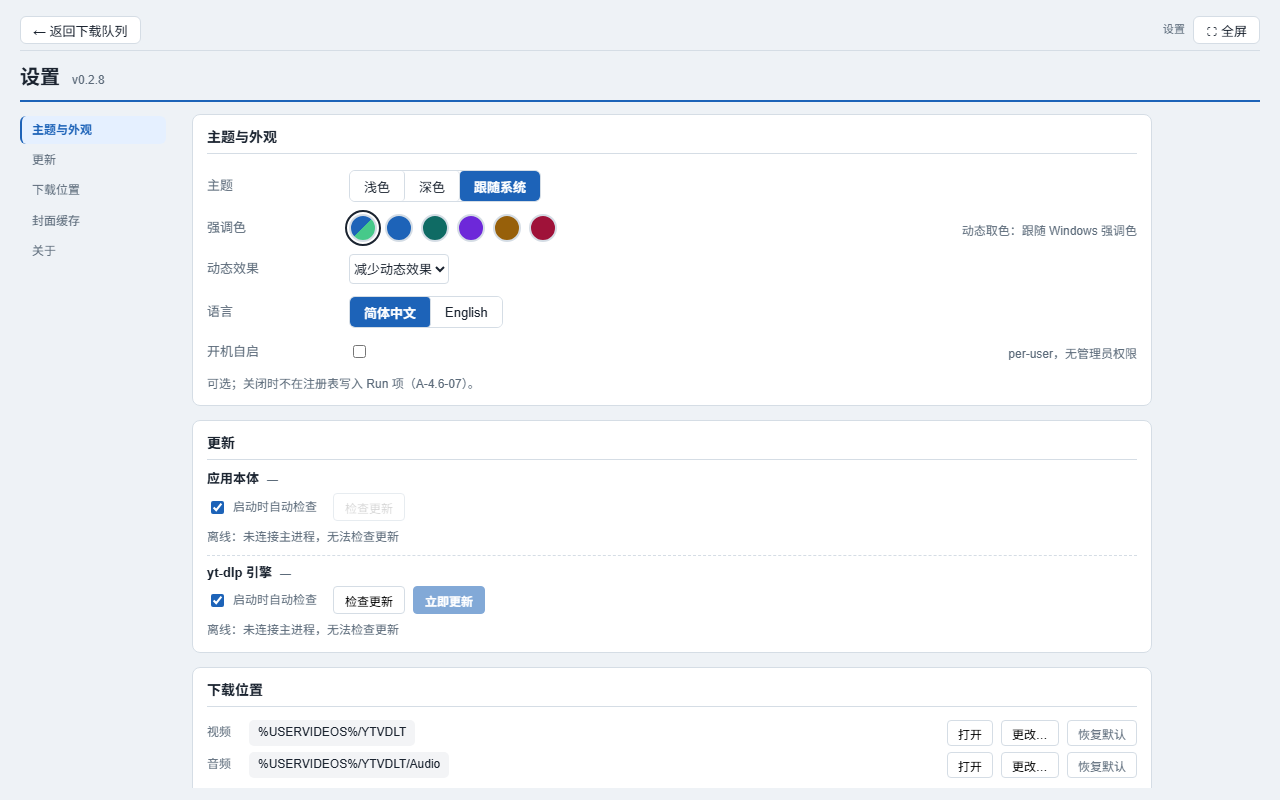
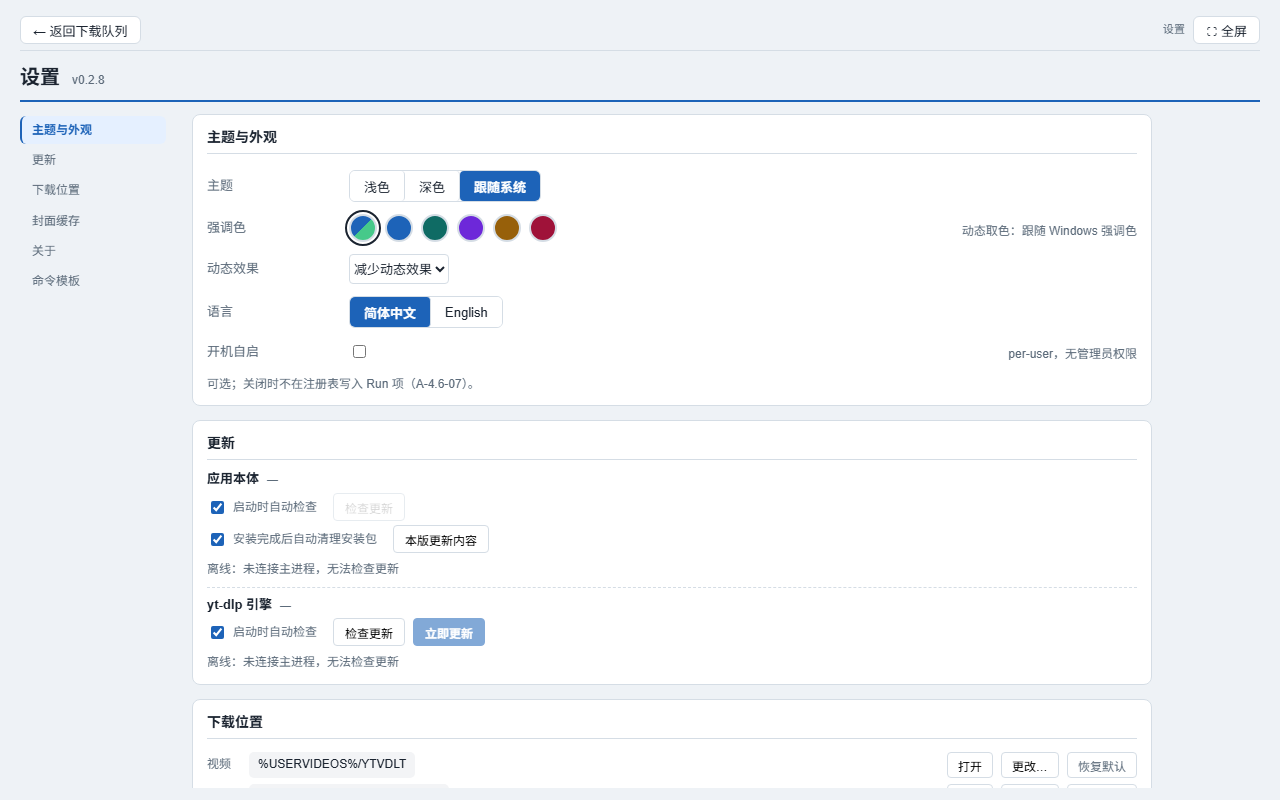
docs(readme): 0.3.3 发版信息与功能/限制/验证数字刷新，中英同步，截图重生成

diff --git a/README.md b/README.md
@@ -19,38 +19,34 @@ dialog on first launch.
 - Download engine: bundled `yt-dlp`, verified and replaceable at runtime
 - Maintainability: a one-way layering rule keeps all queue logic offline-testable
 
-## Latest release — 0.3.2
+## Latest release — 0.3.3
 
 | | |
 |---|---|
-| Released | 2026-11-17 |
-| Artifact | `YTVDLT.Setup.0.3.2.exe` — NSIS installer, Windows x64, 226,414,142 B |
[1 lines of base64/hex data omitted]
-| Tag / release baseline | `v0.3.2` |
-| Downloads | [Release 0.3.2](https://github.com/yechenliao0820/YTVDLT/releases/tag/v0.3.2) · [all releases](https://github.com/yechenliao0820/YTVDLT/releases) |
+| Released | 2026-11-26 |
+| Artifact | `YTVDLT.Setup.0.3.3.exe` — NSIS installer, Windows x64, 226,344,798 B |
[1 lines of base64/hex data omitted]
+| Tag / release baseline | `v0.3.3` |
+| Downloads | [Release 0.3.3](https://github.com/yechenliao0820/YTVDLT/releases/tag/v0.3.3) · [all releases](https://github.com/yechenliao0820/YTVDLT/releases) |
 
-**What changed in 0.3.2** — a privacy-and-durability release built out of two
-audit rounds (D-234…D-243). Private mode finally means what it says: the toolbar
-switch only reports "on" after the main process confirms the write and reverts
-with the real reason if it fails, the three paths that create a task wait for
-that write instead of reading the previous value, and a private task is no
-longer written to the queue snapshot at all — a crash or a kill can no longer
-resurrect the record on the next launch. Queue durability got equally honest:
-every enqueue is persisted before it returns (including a task that starts
-immediately, whose probe phase used to be unpersisted), and a failed snapshot
-write is reported instead of being swallowed — a removal that never reached the
-disk no longer looks like a success. `history.json` is read directly instead of
-trusting an existence probe that mapped every stat error to "missing", so a
-transient permission or sharing error can no longer overwrite a history this
-process never saw. The updater no longer hands a `.download` staging file to
-Windows: an installer that cannot be published under its release name is a
-failed update, not an install that may launch something else. The earlier audit
-fixes ride along: signed-URL parameters are redacted from verbose stderr, a
-streaming download settles from exit evidence when `close` never arrives, the
-proxy password is scrubbed from `tasks.json` and re-injected from the current
-config on restore, concurrent duplicate downloads reserve their ` (n)` copy
-names, and the unused permanent-unlink capability behind `history.remove` is
-gone.
+**What changed in 0.3.3** — the close-out of two online-audit rounds on top of
+0.3.2 (D-244…D-282); no new feature surface. Categorized downloads land in real
+folders: with *subfolder by extractor / playlist* enabled, files go to
+`<output>/<Extractor>/<Playlist>/` instead of a literal `%(extractor_key)s`
+directory. Restored UI feedback: the queue status line, the delete dialog's
+"also delete local files" checkbox and its explanation, the Settings "open
+release page" button, the task-log body and the batch row list are visible
+again. A damaged `tasks.json` no longer bricks startup — restore, enqueue,
+retry and delete keep working and the queue refills a freed slot. A configured
+download folder that still contains an unresolved `%VARIABLE%` is refused up
+front instead of creating a literal directory. Under the hood: config, command
+templates and history imports are persist-first with per-element validation;
+the thumbnail index is byte-backed up before repair; covers only load over
+https and a credentials-carrying SOCKS update proxy is refused; the quit path
+cancels in-flight downloads inside a bounded budget that a second quit can no
+longer cut short; and every yt-dlp spawn starts with `--ignore-config
+--no-plugin-dirs` so stray user configs and plugin directories cannot bypass
+the argv allowlist.
 
 The installer is **not code-signed**; SmartScreen will warn once on first run.
 
@@ -121,6 +117,11 @@ filesystem. `scripts/check-layering.mjs` enforces the boundary.
   playlist is probed live, previewed and selected by default, then confirmed
   once into N independent tasks — each with its own cancel / retry.
   (D-129, D-130)
+- **Optional folder classification.** Turn on *subfolder by extractor* /
+  *subfolder by playlist* and downloads land under
+  `<output>/<Extractor>/<Playlist>/` instead of one flat folder — the layers
+  are part of the engine's output template, so the on-disk tree matches what
+  was configured. (D-275)
 - **Supported sites, read from your own engine.** The panel lists what the
   bundled `yt-dlp` actually reports (`--list-extractors`) — site count,
   sub-extractors, engine version — with search, sort, refresh and paging. There
@@ -280,19 +281,14 @@ Stated plainly rather than glossed over:
   on the packaged installer — startup & version truth, the app update check
   (with live release-notes aggregation), component status, a real download
   into the Videos library, open-folder, delete-with-files (recycle bin),
-  mid-download cancel, and the second-instance deep-link prefill. One known
-  issue is disclosed in the release notes: in the packaged build, closing the
-  window quits the app instead of hiding to the tray — a legacy behaviour
-  shared by every released version, already fixed in code (D-220 / D-224) and
-  awaiting the next build's re-verification. YouTube and similar sites require
-  reachable network access (direct or via your own proxy).
-- 0.3.2 **contains** the close-to-tray fix (D-220 / D-224), but this build has
-  not been through the real-machine click-through yet: this round was validated
-  by the automated gates (typecheck, the full unit/contract suite, the
-  screenshot E2E with its negative controls) and the packaged installer was
-  built and inspected (version resources, asar contents, SHA-256) — it was not
-  installed and clicked through. Treat the tray behaviour as fixed-in-code,
-  pending field confirmation.
+  mid-download cancel, and the second-instance deep-link prefill. 0.3.2 and
+  0.3.3 were validated by the automated gates (typecheck, the full suite with
+  coverage, the screenshot E2E with its negative controls) plus packaging
+  inspection (version resources, asar contents, icon payloads, SHA-256) — they
+  were not installed and clicked through. The close-to-tray fix (D-220 / D-224,
+  shipped since 0.3.2) is therefore fixed-in-code, pending field confirmation.
+  YouTube and similar sites require reachable network access (direct or via
+  your own proxy).
 - App updates download the whole installer (no delta), and the portable build
   does not participate in self-update.
 - No real-device, all-sites coverage is claimed; the verification numbers in
@@ -300,12 +296,12 @@ Stated plainly rather than glossed over:
 
 Full list: [`docs/AI-MAINTENANCE.md`](docs/AI-MAINTENANCE.md) §10.
 
-## Release history — 0.2.2 → 0.3.2
+## Release history — 0.2.2 → 0.3.3
 
-Eleven releases in ten days. The trajectory moved from UI polish, through
+Twelve releases in eighteen days. The trajectory moved from UI polish, through
 download-core correctness, to edge cases that only appear after a file has been
 moved or deleted outside the app — and then into a broad security, privacy and
-real-machine-verification pass, followed by an audit round that made private
+real-machine-verification pass, followed by audit rounds that made private
 mode and queue persistence mean exactly what they claim.
 
 | Version | Date | Focus | Decisions | Release |
@@ -319,31 +315,31 @@ mode and queue persistence mean exactly what they claim.
 | 0.2.8 | 2026-11-10 | Idempotent deletion; on-demand local file state detection; layered licence pane with the full English licence | D-120 / D-121 | [v0.2.8](https://github.com/yechenliao0820/YTVDLT/releases/tag/v0.2.8) |
 | 0.2.9 | 2026-11-10 | Native right-click edit menu in editable fields; settings placeholder shows `—` instead of a made-up path | D-122 / D-123 | [v0.2.9](https://github.com/yechenliao0820/YTVDLT/releases/tag/v0.2.9) |
 | 0.3.0 | 2026-11-12 | Subtitle pipeline; TXT / playlist batch import; bounded engine output; dynamic supported-sites list and the six-state URL pre-check; HTTP / IPC / process-termination hardening; command templates | D-124…D-139 | [v0.3.0](https://github.com/yechenliao0820/YTVDLT/releases/tag/v0.3.0) |
-| **0.3.2** | **2026-11-17** | Private mode confirmed by the host before the UI claims it, and never persisted — a crash cannot resurrect the record; enqueue / retry / removal report a failed snapshot write instead of swallowing it; history reads no longer trust an existence probe; the updater refuses to install an installer it could not publish; plus the D-234…D-238 audit fixes | D-234…D-243 | [v0.3.2](https://github.com/yechenliao0820/YTVDLT/releases/tag/v0.3.2) |
 | **0.3.1** | **2026-11-15** | Everything after 0.3.0, machine-verified: DNS-pinned outbound connections; CSP + deny-all session permission gate on every page; atomic config writes with corrupt-snapshot backup; config-domain whitelist; cancellable URL pre-checks; first-launch OS language; deep-link prefill fix; download-location root rejection; verifier-timeout honesty | D-140…D-213 | [v0.3.1](https://github.com/yechenliao0820/YTVDLT/releases/tag/v0.3.1) |
+| **0.3.2** | **2026-11-17** | Private mode confirmed by the host before the UI claims it, and never persisted — a crash cannot resurrect the record; enqueue / retry / removal report a failed snapshot write instead of swallowing it; history reads no longer trust an existence probe; the updater refuses to install an installer it could not publish; plus the D-234…D-238 audit fixes | D-234…D-243 | [v0.3.2](https://github.com/yechenliao0820/YTVDLT/releases/tag/v0.3.2) |
+| **0.3.3** | **2026-11-26** | Close-out of two online-audit rounds, no new feature surface: categorized downloads land in real `<Extractor>/<Playlist>` folders; the queue status line, delete-with-files checkbox, release-page button, log body and batch row list are visible again; a damaged `tasks.json` no longer bricks startup; unresolved `%VARIABLE%` in a configured download folder is refused up front; persist-first config / template / history writes; https-only covers; a second quit can no longer cut the shutdown cleanup short | D-244…D-282 | [v0.3.3](https://github.com/yechenliao0820/YTVDLT/releases/tag/v0.3.3) |
 
-0.3.2 is published, and everything landed through D-243 is in it: the six
-private-mode and persistence defects from the second online audit (D-239…D-243),
-on top of the first audit round (D-234…D-238). Details live in
+0.3.3 is published, and everything landed through D-282 is in it: the two audit
+rounds that made the categorized folders, the restored UI feedback, the
+damaged-snapshot recovery and the quit-path cleanup real. Details live in
 [`docs/CHANGELOG.md`](docs/CHANGELOG.md) and [`docs/DECISIONS.md`](docs/DECISIONS.md).
 
-Work landing after 0.3.2 is **not yet released** (D-244…D-249): a transition veil
-for the language reload, `--ignore-config --no-plugin-dirs` on every yt-dlp spawn so
-a stray user/portable config or plugin directory can never bypass the argv
-allowlist, config reads that no longer trust an existence probe, in-flight downloads
-cancelled on quit with a bounded wait for exit evidence (and `Alt+F4` handed back to
-the OS window-close path), single-flight bounded file-status probing, and a
-command-template store that backs up a damaged file before replacing it.
-
-A second audit round on top of that (D-250…D-264) adds: an `http://` → `https://`
-cover upgrade so Bilibili covers are no longer rejected by the https-only gate, a
-themed status bar in place of the persistent empty `{}` box on the detail page,
-private-mode cover-cache reclaim with a delete-time reference re-check and an
-exact accounting, a narrowed install baseline, a fail-closed private-directory
-expansion, quit-path evidence for queued tasks plus a gate that keeps a second
-quit from cutting the cleanup short, persist-first template CRUD with its error
-priority restored, write-then-start for retries, English refusal copy through a
-pure display model, and test suites that no longer rewrite the host environment.
+Work landing after 0.3.3 is **not yet released** (D-284…D-294): in-app upgrades
+now quit the app first and only then launch the installer silently (`--updated`),
+through a detached waiter whose first act — writing an ACK file — must be seen
+before the app commits to quitting, with a wizard fallback kept (D-284 / D-289 /
+D-291); the downloaded installer is cleaned up after a successful upgrade via a
+Settings switch (on by default), and the orphaned installers left behind by the
+0.3.0–0.3.3 marker bug are swept at startup, strictly-older versions only
+(D-286 / D-289 / D-294); Settings carries a bundled, bilingual, re-openable
+"What's new in this version" panel (D-287); cover fetching works behind system
+proxies / TUN / Fake-IP by handing that traffic to the Chromium network stack
+(D-288); playlist-classified batch downloads finally group entries under the
+playlist name — the entry-URL path the switch is about (D-293); per-task temp
+folders (`.part` resume evidence) are reclaimed when a record is deleted,
+including private records on window close (D-291 / D-292); a hung network-drive
+`stat` can no longer stall the queue page (deadline + quarantine, D-291); and a
+cancelled update download no longer parks 226 MB in the Recycle Bin (D-285).
 
 ## Engineering and verification
 
@@ -355,8 +351,8 @@ state of the repository (per-release numbers live in
 | Gate | Result |
 |---|---|
 | `pnpm typecheck` | 5/5 workspace packages successful (per-package `tsc --noEmit`) |
-| Unit / contract / integration tests | **2,875 passed, 6 skipped (capability-gated), 0 failed across 170 files** |
-| Coverage | statements 93.16% / branches 86.66% / functions 93.46% / lines 93.16% (floor 70, not raised; the zero-dependency UI itself is covered too) |
+| Unit / contract / integration tests | **3,155 passed, 6 skipped (capability-gated), 0 failed across 176 files** |
+| Coverage | statements 92.55% / branches 86.68% / functions 93.42% / lines 92.55% (floor 70, not raised; the zero-dependency UI itself is covered too) |
 | Screenshot E2E | 31/31 cases + 5/5 deliberate negative checks; screenshot baselines untouched by the recent audit-repair rounds |
 | `check-layering` / `frozen-gate` / `request.ts` freeze | 0 violations / passed / byte-identical |
 | CI | GitHub Actions (`ci.yml`, `windows-latest`) runs typecheck, the full suite with coverage, layering and the frozen-file gate on every push to `main` and every PR; branch protection requires it to pass before merge, and all actions are pinned to commit SHAs |
